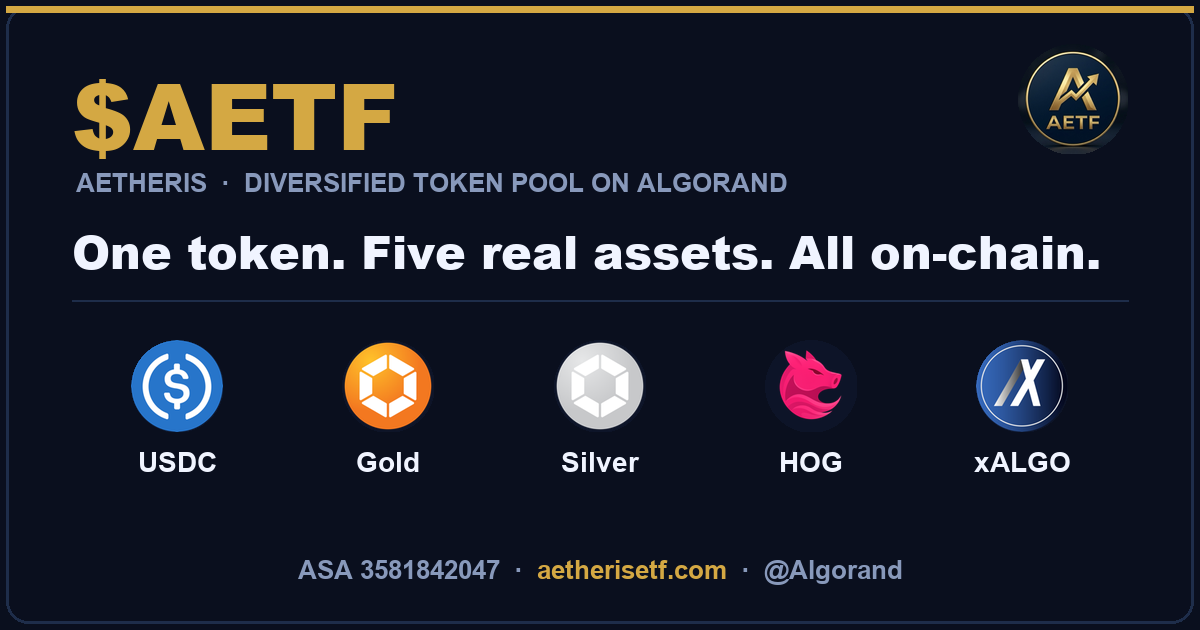
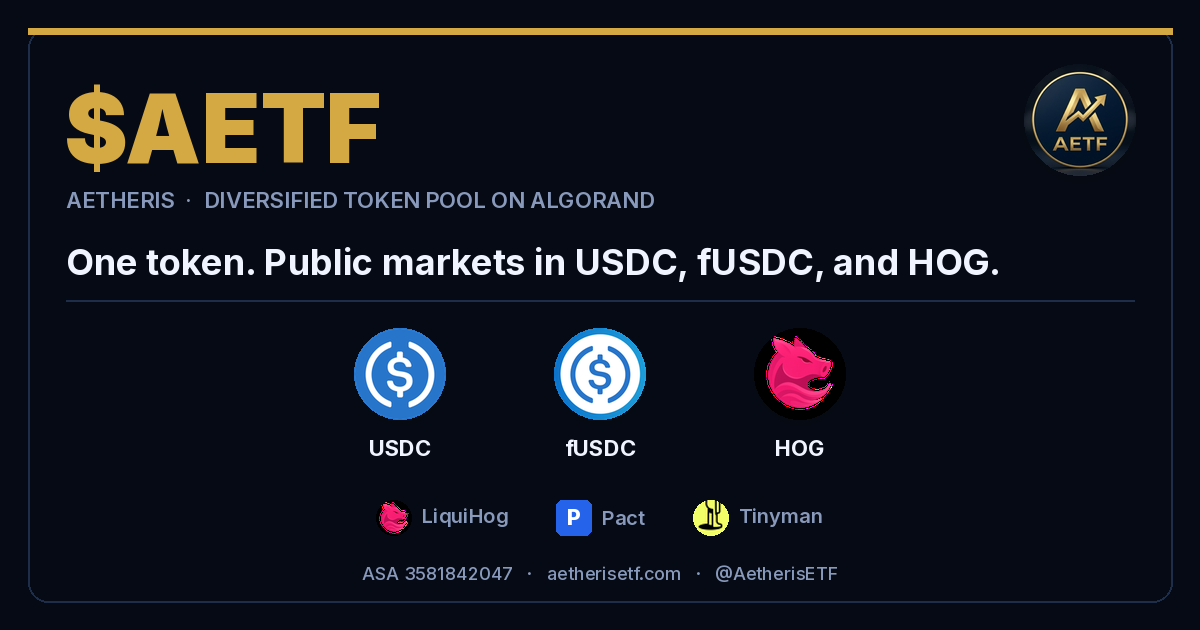
Audit fixes: OG image, fail states, and legal copy
Replace the outdated gold/silver/xALGO og-image with a 1200x630 card for USDC, fUSDC, and HOG on LiquiHog, Pact, and Tinyman.

If the USDC mark cannot be computed, live figures go blank instead of falling back to the launch price or leftover values. Holder-count failures no longer wipe the rest of the tape.

Footer and whitepaper drop em dashes. The footer now says AETF is not a registered security, not an investment fund, and not investment advice, and that you can lose the value you put in. fUSDC wording now says any Folks lending yield is variable and not promised.

diff --git a/index.html b/index.html
@@ -66,7 +66,7 @@
         }
         .nav-cta img { width: 18px; height: 18px; border-radius: 4px; }
         .nav-cta.tinyman { background: linear-gradient(135deg, var(--accent), var(--accent2)); color: var(--bg); }
-        .nav-cta.vestige { background: linear-gradient(135deg, #6366f1, #8b5cf6); color: white; }
+        .nav-cta.liquihog { background: linear-gradient(135deg, #6366f1, #8b5cf6); color: white; }
         .nav-cta:hover { transform: translateY(-1px); box-shadow: 0 4px 20px rgba(0,0,0,0.3); }
         .nav-buttons { display: flex; gap: 8px; }
         .hamburger {
@@ -457,7 +457,7 @@
                 <a href="whitepaper.html">Whitepaper</a>
             </div>
             <div class="nav-buttons">
-                <a href="https://app.liquihog.com/asset/3581842047" target="_blank" class="nav-cta vestige"><img src="img/hog.png" alt="">LiquiHog</a>
+                <a href="https://app.liquihog.com/asset/3581842047" target="_blank" class="nav-cta liquihog"><img src="img/hog.png" alt="">LiquiHog</a>
             </div>
         </div>
     </nav>
@@ -540,7 +540,7 @@
                     <img src="img/fusdc.png" alt="fUSDC" class="basket-logo">
                     <div class="basket-name">fUSDC</div>
                     <div class="basket-pct" id="pct-fusdc">—%</div>
-                    <div class="basket-desc">Folks Finance interest-bearing USDC. Part of this pool liquidity earns lending yield. No APY or yield is guaranteed.</div>
+                    <div class="basket-desc">Folks Finance interest-bearing USDC. Part of this pool liquidity may earn variable lending yield from Folks. No APY or yield is promised.</div>
                 </div>
                 <div class="basket-card" data-asset="hog">
                     <img src="img/hog.png" alt="HOG" class="basket-logo">
@@ -688,8 +688,8 @@
             <a href="https://explorer.perawallet.app/asset/3581842047" target="_blank">Pera Explorer</a>
             <a href="https://algorand.co" target="_blank">Built on Algorand</a>
         </div>
-        <p>Aetheris — Diversified markets. Public reserves. Algorand.</p>
-        <p style="margin-top: 8px; font-size: 11px; color: var(--text3);">AETF is not a registered security or financial advice. This is a decentralized token on the Algorand blockchain. Do your own research. Past performance does not guarantee future results.</p>
+        <p>Aetheris. Diversified markets. Public reserves. Algorand.</p>
+        <p style="margin-top: 8px; font-size: 12px; color: var(--text3);">AETF is not a registered security, not an investment fund, and not investment advice. This is a decentralized token on the Algorand blockchain. Do your own research. You can lose the value you put in. Past performance does not guarantee future results.</p>
     </footer>
 
     <script src="https://cdn.jsdelivr.net/npm/chart.js@4.4.7/dist/chart.umd.min.js"></script>
@@ -814,6 +814,41 @@
             }
         }
 
+        function clearLiveFigures() {
+            const price = document.getElementById('livePrice');
+            if (price) price.textContent = '';
+            const changeEl = document.getElementById('liveChange');
+            if (changeEl) {
+                changeEl.textContent = '';
+                changeEl.className = 'change liq';
+                changeEl.style.color = '';
+            }
+            ['statTvl', 'statMcap', 'statNav', 'statHolders'].forEach(id => {
+                const el = document.getElementById(id);
+                if (el) { el.textContent = ''; el.classList.remove('loading'); }
+            });
+            ['pct-usdc', 'pct-fusdc', 'pct-hog'].forEach(id => {
+                const el = document.getElementById(id);
+                if (el) el.textContent = '';
+            });
+            const donut = document.getElementById('donutChart');
+            if (donut) donut.innerHTML = '<circle cx="60" cy="60" r="52" fill="none" stroke="var(--border)" stroke-width="16" opacity="0.35"/>';
+            ['hogTotalHeld', 'hogPriceLine', 'hogVenueTinyman', 'hogVenuePact', 'hogVenueStamm', 'hogShareTinyman', 'hogSharePact', 'hogShareStamm'].forEach(id => {
+                const el = document.getElementById(id);
+                if (el) {
+                    el.textContent = '';
+                    el.classList.remove('loading');
+                }
+            });
+            if (!document.getElementById('dataError')) {
+                const msg = document.createElement('div');
+                msg.id = 'dataError';
+                msg.className = 'data-error';
+                msg.textContent = 'Pool-implied live data temporarily unavailable.';
+                document.querySelector('.donut-wrapper')?.after(msg);
+            }
+        }
+
         async function updateLiveData() {
             try {
                 const allBalances = await Promise.all(BASKET_POOLS.map(getPoolBalances));
@@ -829,7 +864,12 @@
                         usdcUsd += bal.backing * (pool.backingPriceUsd || 1);
                     }
                 });
-                const aetfPrice = usdcAetf > 0 ? usdcUsd / usdcAetf : LAUNCH_PRICE;
+                if (usdcAetf <= 0) {
+                    clearLiveFigures();
+                    return;
+                }
+                const aetfPrice = usdcUsd / usdcAetf;
+                document.getElementById('dataError')?.remove();
 
                 document.getElementById('livePrice').textContent = '$' + aetfPrice.toFixed(4);
 
@@ -912,37 +952,31 @@
                 setStatValue('statNav', '$' + aetfPrice.toFixed(2));
                 setStatValue('statTvl', '$' + Math.round(totalTvl).toLocaleString());
 
-                const holderRows = [];
-                let nextToken = null;
-                do {
-                    const params = new URLSearchParams({
-                        'currency-greater-than': '0',
-                        limit: '1000'
-                    });
-                    if (nextToken) params.set('next', nextToken);
-                    const holdRes = await fetch(`${INDEXER}/v2/assets/${AETF_ID}/balances?${params}`);
-                    const holdData = await holdRes.json();
-                    holderRows.push(...(holdData.balances || []));
-                    nextToken = holdData['next-token'] || null;
-                } while (nextToken);
-                const externalHolders = holderRows.filter(row => row.amount > 0 && !EXCLUDED_HOLDER_ADDRS.has(row.address));
-                setStatValue('statHolders', externalHolders.length.toLocaleString());
+                try {
+                    const holderRows = [];
+                    let nextToken = null;
+                    do {
+                        const params = new URLSearchParams({
+                            'currency-greater-than': '0',
+                            limit: '1000'
+                        });
+                        if (nextToken) params.set('next', nextToken);
+                        const holdRes = await fetch(`${INDEXER}/v2/assets/${AETF_ID}/balances?${params}`);
+                        if (!holdRes.ok) throw new Error('holders ' + holdRes.status);
+                        const holdData = await holdRes.json();
+                        holderRows.push(...(holdData.balances || []));
+                        nextToken = holdData['next-token'] || null;
+                    } while (nextToken);
+                    const externalHolders = holderRows.filter(row => row.amount > 0 && !EXCLUDED_HOLDER_ADDRS.has(row.address));
+                    setStatValue('statHolders', externalHolders.length.toLocaleString());
+                } catch (holdErr) {
+                    console.warn('Holder count fetch failed', holdErr);
+                    const holdEl = document.getElementById('statHolders');
+                    if (holdEl) { holdEl.textContent = ''; holdEl.classList.remove('loading'); }
+                }
             } catch(e) {
                 console.warn('Live data fetch failed', e);
-                const changeEl = document.getElementById('liveChange');
-                if (changeEl) {
-                    changeEl.textContent = '';
-                    changeEl.className = 'change liq';
-                    changeEl.style.color = '';
-                }
-                const errEl = document.getElementById('dataError');
-                if (!errEl) {
-                    const msg = document.createElement('div');
-                    msg.id = 'dataError';
-                    msg.className = 'data-error';
-                    msg.textContent = 'Pool-implied live data temporarily unavailable. Showing last known values.';
-                    document.querySelector('.donut-wrapper')?.after(msg);
-                }
+                clearLiveFigures();
             }
         }
         function formatHogAmt(n) {

diff --git a/whitepaper.html b/whitepaper.html
@@ -3,7 +3,7 @@
 <head>
     <meta charset="UTF-8">
     <meta name="viewport" content="width=device-width, initial-scale=1.0">
-    <title>Whitepaper — Aetheris (AETF)</title>
+    <title>Whitepaper: Aetheris (AETF)</title>
     <meta name="description" content="Aetheris whitepaper: a diversified on-chain token pool on Algorand. AETF trades against USDC, fUSDC, and HOG on Tinyman, Pact, and LiquiHog STAMM. Not a registered security.">
     <link rel="icon" type="image/png" href="favicon.png">
     <link href="https://fonts.googleapis.com/css2?family=Inter:wght@300;400;500;600;700;800;900&display=swap" rel="stylesheet">
@@ -210,7 +210,7 @@
         <!-- Roadmap -->
         <h2>7. Roadmap</h2>
         
-        <h3>Phase 1 — Launch ✅</h3>
+        <h3>Phase 1: Launch ✅</h3>
         <ul>
             <li>Token creation and liquidity seeding</li>
             <li>Website launch (aetherisetf.com)</li>
@@ -218,7 +218,7 @@
             <li>Community building and first communications</li>
         </ul>
 
-        <h3>Phase 2 — Growth (Q3 2026)</h3>
+        <h3>Phase 2: Growth (Q3 2026)</h3>
         <ul>
             <li>Pera Wallet verification</li>
             <li>TVL growth to $100K+</li>
@@ -227,7 +227,7 @@
             <li>Community engagement (Twitter, Reddit, Algorand ecosystem)</li>
         </ul>
 
-        <h3>Phase 3 — Integration (Q4 2026)</h3>
+        <h3>Phase 3: Integration (Q4 2026)</h3>
         <ul>
             <li>Folks Finance collateral listing proposal</li>
             <li>Cross-protocol composability</li>
@@ -235,7 +235,7 @@
             <li>Partnerships with Algorand ecosystem projects</li>
         </ul>
 
-        <h3>Phase 4 — Scale (2027)</h3>
+        <h3>Phase 4: Scale (2027)</h3>
         <ul>
             <li>TVL target: $1M+</li>
             <li>Potential basket expansion (additional asset classes)</li>
@@ -285,7 +285,7 @@
     </div>
 
     <div class="footer">
-        © 2026 Aetheris. All rights reserved. AETF is a token pool, not a registered security or investment fund — DYOR. | <a href="/">Home</a>
+        © 2026 Aetheris. All rights reserved. AETF is a token pool, not a registered security or investment fund. DYOR. | <a href="/">Home</a>
     </div>
 </body>
 </html>

diff --git a/whitepaper.md b/whitepaper.md
@@ -127,26 +127,26 @@ Every aspect of AETF is publicly auditable:
 
 ## 7. Roadmap
 
-### Phase 1 — Launch ✅
+### Phase 1: Launch ✅
 - Token creation and liquidity seeding
 - Website launch (aetherisetf.com)
 - Tinyman, Pact and LiquiHog integration
 - Community building and first communications
 
-### Phase 2 — Growth (Q3 2026)
+### Phase 2: Growth (Q3 2026)
 - Pera Wallet verification
 - TVL growth to $100K+
 - Expanded holder base (25+ holders)
 - Whitepaper publication
 - Community engagement (Twitter, Reddit, Algorand ecosystem)
 
-### Phase 3 — Integration (Q4 2026)
+### Phase 3: Integration (Q4 2026)
 - Folks Finance collateral listing proposal
 - Cross-protocol composability
 - Advanced analytics dashboard with live allocation tracking
 - Partnerships with Algorand ecosystem projects
 
-### Phase 4 — Scale (2027)
+### Phase 4: Scale (2027)
 - TVL target: $1M+
 - Potential basket expansion (additional asset classes)
 - Governance framework for allocation adjustments
